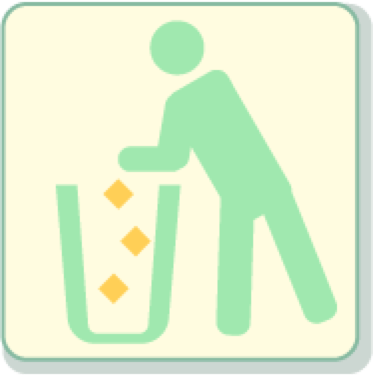
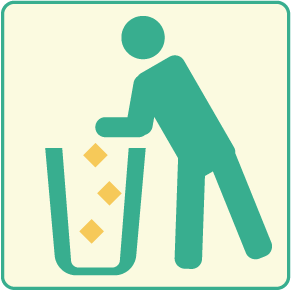
complete home view layout

diff --git a/app/assets/stylesheets/home.scss b/app/assets/stylesheets/home.scss
@@ -1,3 +1,58 @@
 // Place all the styles related to the home controller here.
 // They will automatically be included in application.css.
 // You can use Sass (SCSS) here: http://sass-lang.com/
+@import "bootstrap";
+
+
+$main: #3AB795;
+
+.home{
+  h1{
+    color: $main;
+    font-size: 100px;
+    text-align: center;
+  }
+
+   h2{
+     color: $main;
+   }
+
+   .box {
+     float: left;
+    width: 50%;
+   }
+
+   .toNext{
+     // box-shadow: 2px 2px;
+   }
+
+
+    .boxContainer {
+    	overflow: hidden;
+     text-align: center;
+     // background: #ffffff;
+    }
+
+    /* clearfix */
+    .boxContainer:before,
+    .boxContainer:after {
+        content: "";
+        display: table;
+    }
+
+    .boxContainer:after {
+        clear: both;
+    }
+
+   .view{
+     width: 60%;
+     margin-left: auto;
+     margin-right: auto;
+   }
+
+    /* For IE 6/7 (trigger hasLayout) */
+    .boxContainer {
+        zoom: 1;
+    }
+
+}

diff --git a/app/assets/stylesheets/application.scss b/app/assets/stylesheets/application.scss
@@ -13,6 +13,31 @@
  *= require_tree .
  *= require_self
  */
- @import "bootstrap";
 
- .navbar { background: #86BAA1 }
+
+ @import "bootstrap";
+ $main: #3AB795;
+ .navbar {
+   background: $main;
+   color: #000000;
+   height: 80px;
+ }
+
+ .navbar-header{
+   text-align: left;
+ }
+
+ .navbar-brand{
+   text-align: left;
+   color: #fffce0;
+ }
+
+ .navbar-default .navbar-nav > li > a:hover,
+ .navbar-default .navbar-nav > li > a:focus {
+ color: $main;
+ background-color: transparent;
+ }
+
+ body{
+   background: #fffce0
+ }
